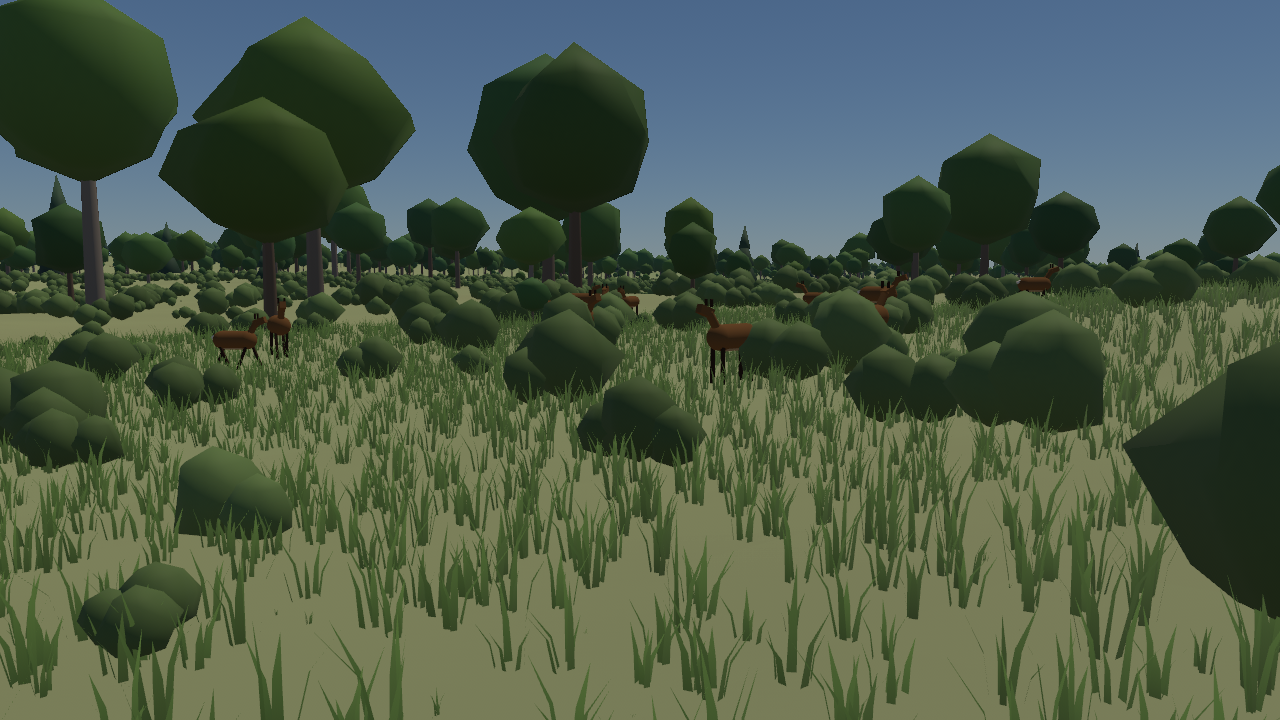
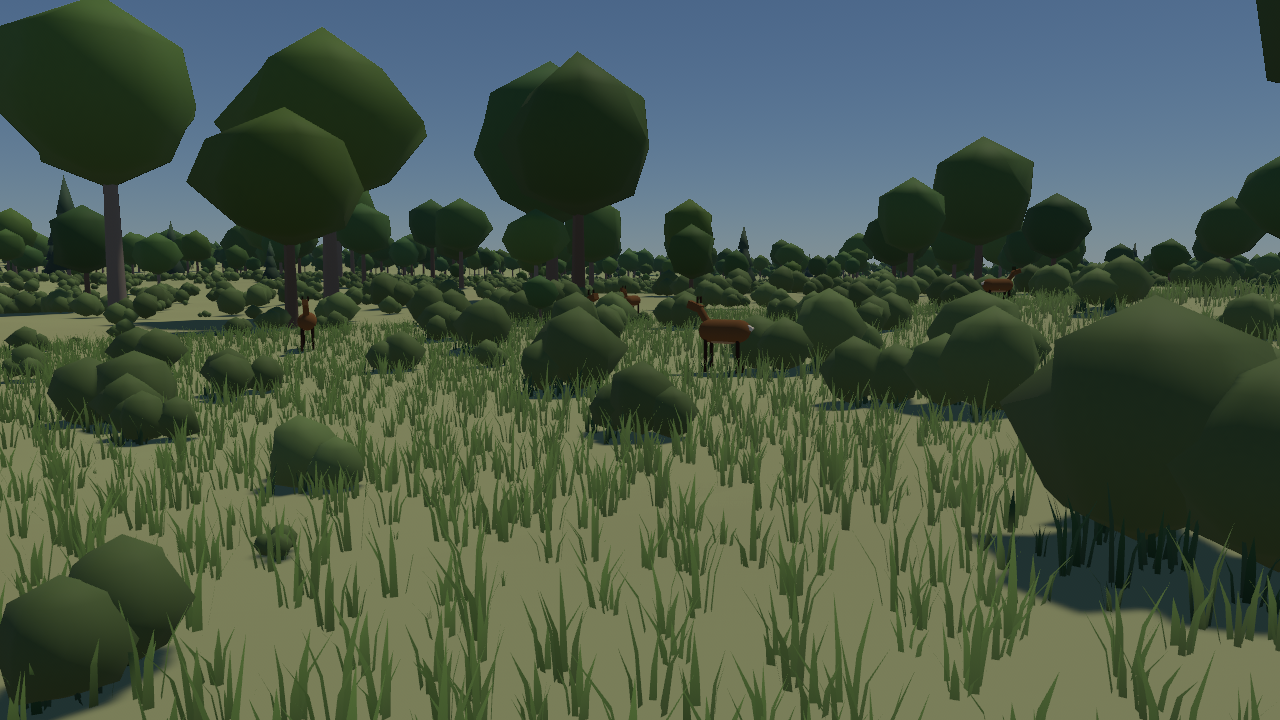
Lighting: sun shadows from terrain, vegetation and animals
Cascaded shadow maps out to 6 km. Terrain and vegetation get their own
shadow-pass vertex shaders (vegetation grows in by the shared
plant_scale), and the custom shaders now set the shadow-receiver flag.
--no-shadows turns shadow maps off.

Claude-Session: https://claude.ai/code/session_016N33gU6W3yEbuGcrSpCqAf

diff --git a/src/main.rs b/src/main.rs
@@ -65,6 +65,8 @@ struct Args {
     exaggeration: f64,
     /// Headless: capture only these views (all when empty).
     views: Vec<String>,
+    /// Sun shadow maps (off for weak GPUs).
+    shadows: bool,
 }
 
 impl Args {
@@ -83,6 +85,7 @@ impl Args {
             view: (0.6, 0.35, 3.2),
             exaggeration: 1.0,
             views: Vec::new(),
+            shadows: true,
         };
         let mut it = std::env::args().skip(1);
         while let Some(flag) = it.next() {
@@ -110,6 +113,7 @@ impl Args {
                 "--pitch" => args.view.1 = value().parse().expect("--pitch"),
                 "--distance" => args.view.2 = value().parse().expect("--distance"),
                 "--exaggeration" => args.exaggeration = value().parse().expect("--exaggeration"),
+                "--no-shadows" => args.shadows = false,
                 "--views" => args.views = value().split(',').map(str::to_owned).collect(),
                 "-h" | "--help" => {
                     println!(
@@ -118,7 +122,7 @@ impl Args {
                          [--cache DIR | --no-cache] [--regenerate] \
                          [--resolution N] [--seed N] [--out DIR] \
                          [--yaw RAD] [--pitch RAD] [--distance RADII] [--exaggeration X] \\
-                         [--views planet,orbit,surface,forest,meadow,herd]"
+                         [--views planet,orbit,surface,forest,meadow,herd] [--no-shadows]"
                     );
                     std::process::exit(0);
                 }
@@ -204,8 +208,19 @@ fn setup_scene(mut commands: Commands, args: Res<Args>, mut images: ResMut<Asset
     commands.spawn((
         DirectionalLight {
             illuminance: bevy::light::light_consts::lux::DIRECT_SUNLIGHT,
+            shadow_maps_enabled: args.shadows,
             ..default()
         },
+        // Shadows from a blade's length to the hills a few km away: the first cascade is
+        // small for animals and shrubs, the last reaches mountain shadows.
+        bevy::light::CascadeShadowConfigBuilder {
+            num_cascades: 4,
+            minimum_distance: 0.3,
+            first_cascade_far_bound: 40.0,
+            maximum_distance: 6_000.0,
+            overlap_proportion: 0.2,
+        }
+        .build(),
         Transform::from_xyz(4.0, 1.5, 2.0).looking_at(Vec3::ZERO, Vec3::Y),
     ));
     // Physical units: full sunlight and a daylight exposure. Skylight comes from the

diff --git a/src/planet/vegetation.rs b/src/planet/vegetation.rs
@@ -666,18 +666,20 @@ pub fn update_vegetation(
         .filter_map(|(key, task)| block_on(poll_once(task)).map(|tile| (*key, tile)))
         .map(|(key, tile)| {
             let entity = tile.mesh.map(|mesh| {
-                commands
-                    .spawn((
-                        Name::new(format!("Vegetation {:?} {:?}", key.0, key.1)),
-                        Mesh3d(meshes.add(mesh)),
-                        MeshMaterial3d(planet.material.clone()),
-                        Transform::default(),
-                        Visibility::Hidden,
-                        NotShadowCaster,
-                        PlanetAnchor(tile.center),
-                        VegetationTile,
-                    ))
-                    .id()
+                let mut e = commands.spawn((
+                    Name::new(format!("Vegetation {:?} {:?}", key.0, key.1)),
+                    Mesh3d(meshes.add(mesh)),
+                    MeshMaterial3d(planet.material.clone()),
+                    Transform::default(),
+                    Visibility::Hidden,
+                    PlanetAnchor(tile.center),
+                    VegetationTile,
+                ));
+                // Millions of blades: grass shadows aren't worth it.
+                if key.0 == Layer::Grass {
+                    e.insert(NotShadowCaster);
+                }
+                e.id()
             });
             veg.built.insert(
                 key,
@@ -831,12 +833,13 @@ impl Material for VegetationMaterial {
         "shaders/planet/vegetation.wesl".into()
     }
 
-    // The default prepass and shadow shaders would draw every plant at full size.
-    fn enable_prepass() -> bool {
-        false
+    // Plants cast shadows, grown in like in the main pass (see `vegetation_prepass.wesl`).
+    fn prepass_vertex_shader() -> ShaderRef {
+        "shaders/planet/vegetation_prepass.wesl".into()
     }
 
-    fn enable_shadows() -> bool {
+    // Only the shadow pass uses the prepass shader; the camera has no depth prepass.
+    fn enable_prepass() -> bool {
         false
     }
 

diff --git a/src/planet/lod.rs b/src/planet/lod.rs
@@ -13,7 +13,6 @@ use std::sync::Arc;
 
 use bevy::{
     asset::RenderAssetUsages,
-    light::NotShadowCaster,
     math::{DVec2, DVec3},
     mesh::{Indices, MeshVertexAttribute, PrimitiveTopology},
     platform::collections::HashMap,
@@ -321,7 +320,6 @@ pub fn update_terrain(
                     MeshMaterial3d(material.clone()),
                     Transform::default(),
                     Visibility::Hidden,
-                    NotShadowCaster,
                     TerrainChunk {
                         center: chunk.center,
                     },

diff --git a/src/planet/mod.rs b/src/planet/mod.rs
@@ -738,6 +738,11 @@ impl Material for TerrainMaterial {
         "shaders/planet/planet_material.wesl".into()
     }
 
+    // Terrain casts shadows (mountains, hills).
+    fn prepass_vertex_shader() -> ShaderRef {
+        "shaders/planet/terrain_prepass.wesl".into()
+    }
+
     fn fragment_shader() -> ShaderRef {
         "shaders/planet/planet_material.wesl".into()
     }

diff --git a/README.md b/README.md
@@ -50,9 +50,13 @@ compute: each simulation subsystem is a set of compute passes over planet-wide f
   proportion to the live population densities; herds graze and keep together, flee from
   predators, and predators hunt.
 
+- Step 10: lighting polish. Sun shadows (cascaded shadow maps out to 6 km) cast by the
+  terrain, trees, shrubs and animals, received by everything; plants cast shadows grown in
+  exactly as drawn.
+
 There is no climate simulation and no seasons: the environment maps are static.
 
-Next: lighting polish.
+The plan's steps are all in; what's next is open.
 
 ## Running
 
@@ -107,7 +111,8 @@ assets/shaders/
   planet/animal_params.wesl, animals_*.wesl               live animal populations
   planet/planet_material.wesl   displaces + shades the planet from the height field
   planet/clouds.wesl, cloud_field.wesl                    cloud shell and cloud shadows
-  planet/vegetation.wesl        grows, sways and shades vegetation
+  planet/vegetation*.wesl       grows, sways and shades vegetation (+ its shadow pass)
+  planet/terrain_prepass.wesl   terrain shadow pass
 ```
 
 ## The simulation framework
@@ -285,6 +290,19 @@ level per layer:
   where the terrain colour (which already shows plant cover) takes over.
 - **Shading**: colour by type, temperature and dryness, darker inside canopies, wind sway that
   bends tall parts most, PBR lighting and cloud shadows. No shadow maps yet.
+
+### Lighting
+
+- **Sun**: 100 klx directional light with four shadow cascades, from 40 cm to 6 km (first
+  cascade ends at 40 m, so animals and shrubs get crisp shadows; the last reaches hills).
+  Sky light comes from the atmosphere's environment map, so shadows are sky-blue.
+  `--no-shadows` turns shadow maps off for weak GPUs.
+- **Casters**: terrain chunks and vegetation have their own shadow-pass vertex shaders
+  (`terrain_prepass.wesl`, `vegetation_prepass.wesl`): Bevy's default prepass would not know
+  the chunk layout, and would draw every plant at full size. Vegetation grows in by the
+  same `plant_scale()` (`vegetation_common.wesl`) as in the main pass. Grass does not cast.
+- **Receivers**: the custom terrain and vegetation shaders build their own `PbrInput`; they
+  set the shadow-receiver flag that `pbr_input_new()` leaves clear.
 
 ### Hydraulic erosion
 
